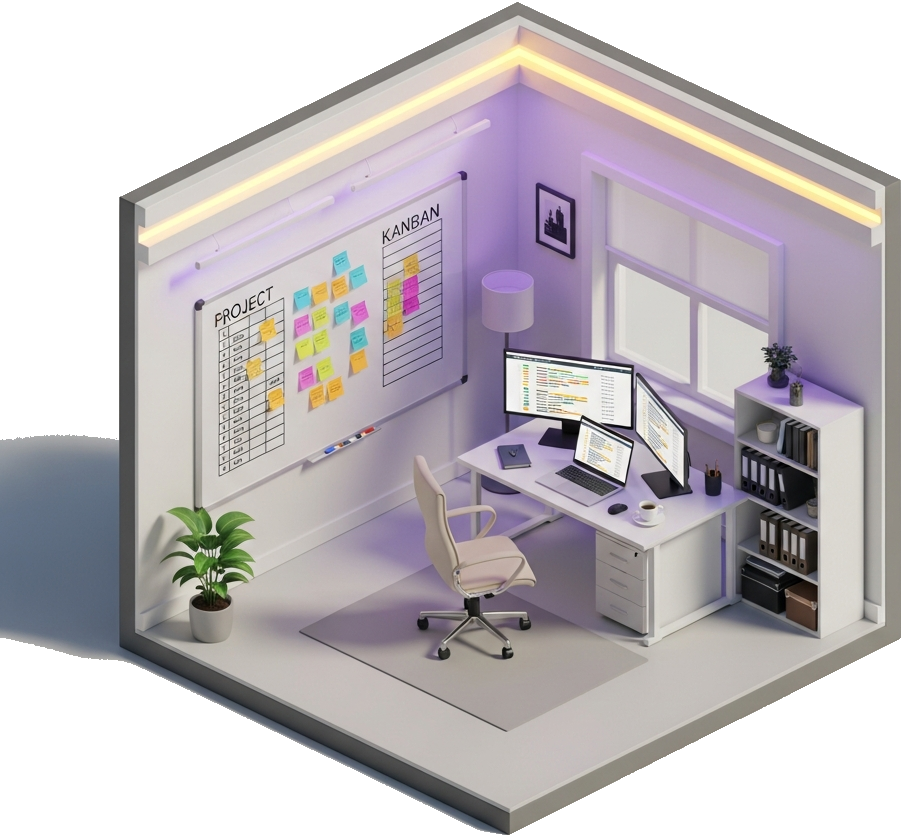
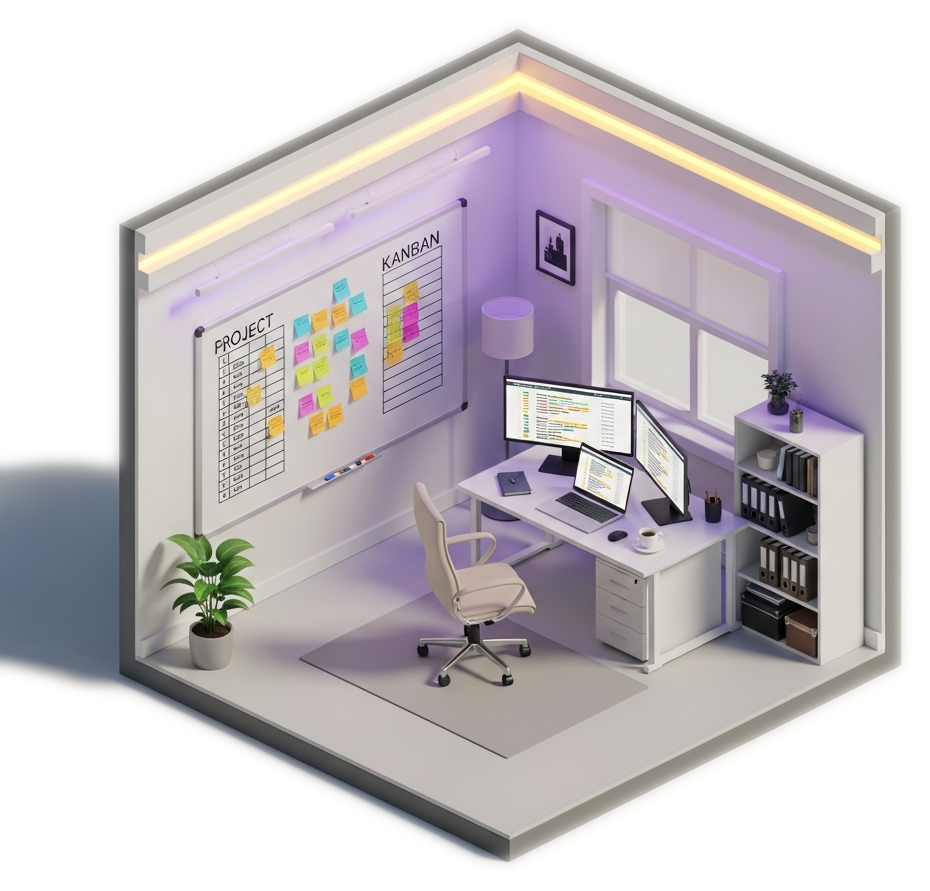
auto-commit for c2330d61-87ca-4415-b203-70ec0d4cd72e

diff --git a/frontend/src/components/workspace/WorkspaceCanvas.js b/frontend/src/components/workspace/WorkspaceCanvas.js
@@ -18,18 +18,14 @@ export const WorkspaceCanvas = ({ children, className, backgroundImage }) => {
         }}
       />
 
-      {/* Layer 2: Background image (soft blurred watermark) */}
+      {/* Layer 2: Background image (clean transparent room) */}
       {bgUrl && (
-        <div
-          className="absolute inset-0 pointer-events-none overflow-hidden"
-        >
-          <div
-            className="w-full h-full bg-contain bg-center bg-no-repeat opacity-[0.15]"
-            style={{
-              backgroundImage: `url(${bgUrl})`,
-              filter: 'blur(20px)',
-              transform: 'scale(1.08)',
-            }}
+        <div className="absolute inset-0 pointer-events-none flex items-center justify-center overflow-hidden">
+          <img
+            src={bgUrl}
+            alt=""
+            className="max-w-[65%] max-h-[75%] object-contain opacity-[0.18] select-none"
+            draggable={false}
           />
         </div>
       )}

diff --git a/frontend/src/components/MainSiteDashboardLayout.js b/frontend/src/components/MainSiteDashboardLayout.js
@@ -52,12 +52,12 @@ const API = `${process.env.REACT_APP_BACKEND_URL}/api`;
 
 /* Site-type background images (same as CreateMainSiteWizard) */
 const SITE_TYPE_BACKGROUNDS = {
-  radio: '/images/env_radio.jpg',
-  server: '/images/env_server.jpg',
-  external_host: '/images/env_external_host.jpg',
-  task_scheduler: '/images/env_task_scheduler.jpg',
-  technical: '/images/env_technical.jpg',
-  wp_security: '/images/env_wp_security.jpg',
+  radio: '/images/env_radio.png',
+  server: '/images/env_server.png',
+  external_host: '/images/env_external_host.png',
+  task_scheduler: '/images/env_task_scheduler.png',
+  technical: '/images/env_technical.png',
+  wp_security: '/images/env_wp_security.png',
 };
 
 const roleIcons = {
